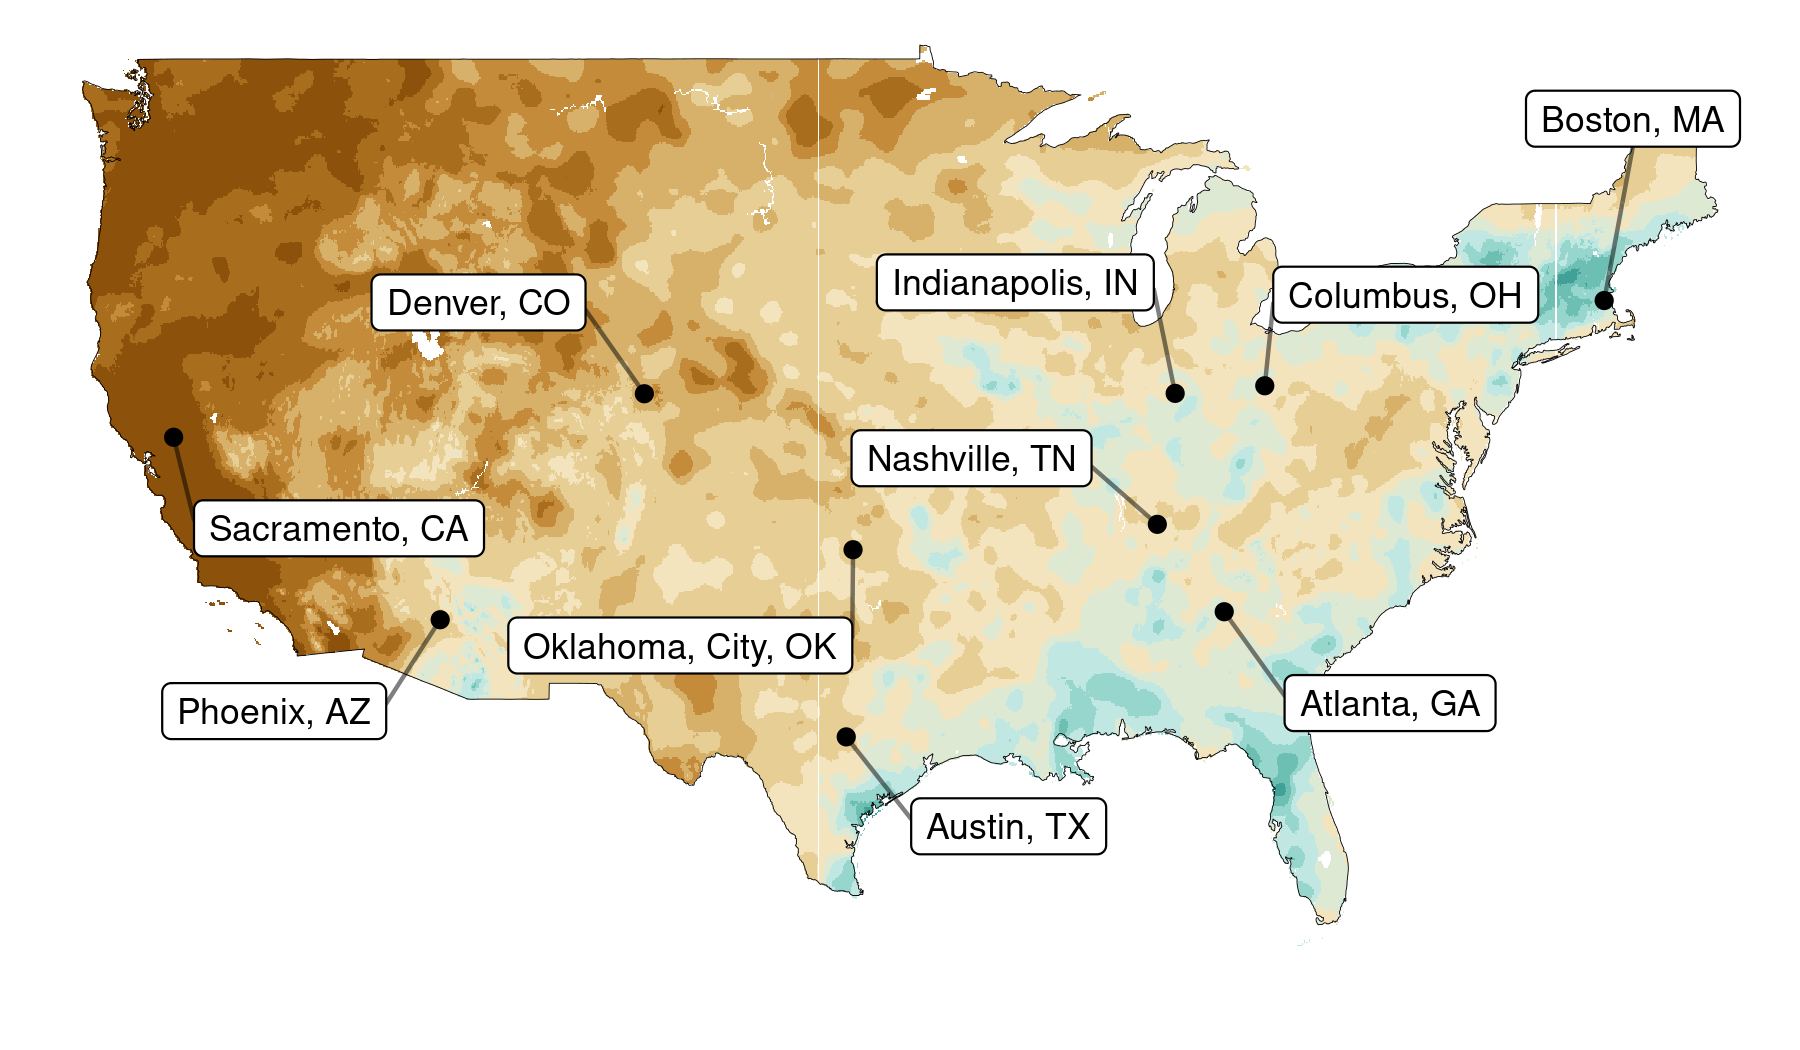
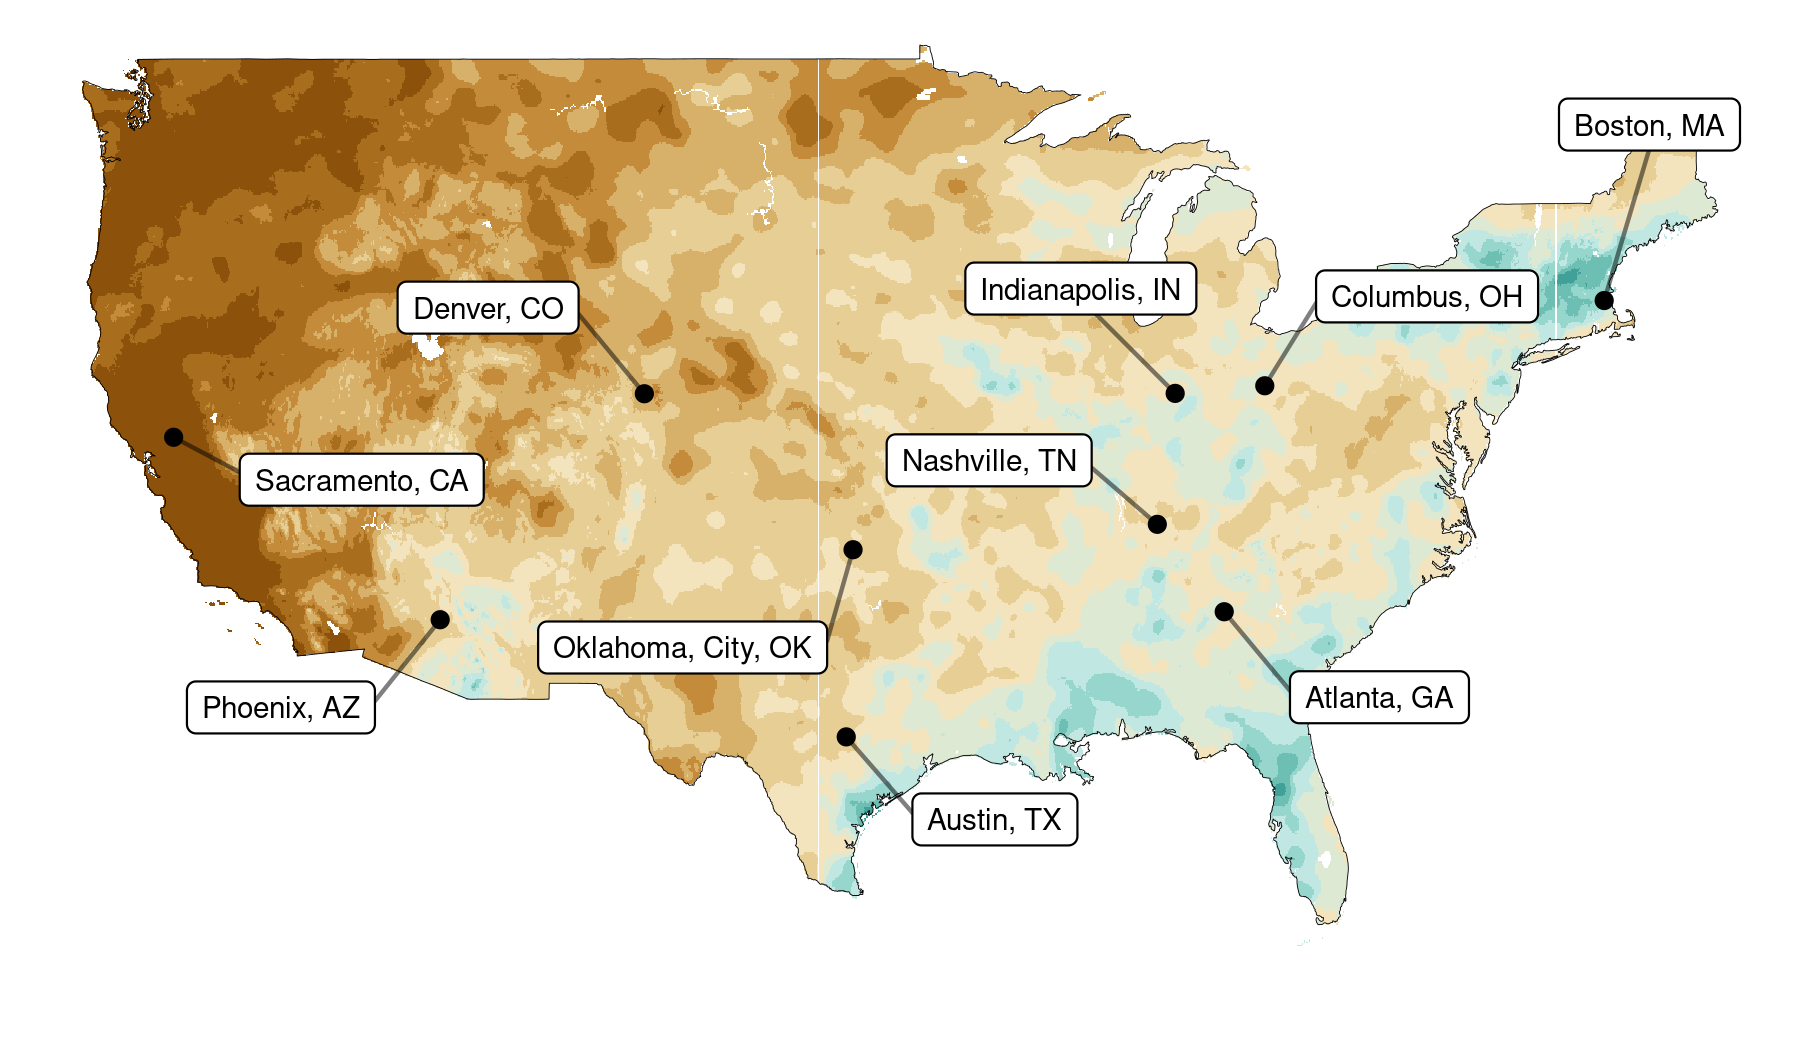
Update docs

diff --git a/README.md b/README.md
@@ -91,9 +91,15 @@ of available periods of record. By default, “1901-2000” (20th Century)
 is used. Other available periods can be listed with
 `validate_normals_period()`
 
+Same measurement type datasets (i.e. temperature or precipitation) can
+be compared by using the `compute_anomaly()` function, which returns the
+difference between the two datasets. Months not present on the LHS are
+not included (i.e. your monthly measurements only cover a few months of
+the year).
+
 ``` r
-tave_anomaly <- compute_anomaly(monthly_data = nclim_monthly_data, 
-                                normals_data = nclim_normals_data)
+tave_anomaly <- compute_anomaly(nclimgrid_data_a =  nclim_monthly_data, 
+                                nclimgrid_data_b = nclim_normals_data)
 
 tave_anomaly %>% str
 #> tibble [5,637,096 × 4] (S3: tbl_df/tbl/data.frame)
@@ -108,12 +114,6 @@ tave_anomaly %>% str
 #>  - attr(*, "wide")= logi FALSE
 #>  - attr(*, "anomaly_df")= logi TRUE
 ```
-
-Same measurement type datasets (i.e. temperature or precipitation) can
-be compared by using the `compute_anomaly()` function, which returns the
-difference between the two datasets. Months not present on the LHS are
-not included (i.e. your monthly measurements only cover a few months of
-the year).
 
 ### Visualization
 
@@ -169,7 +169,7 @@ nclim_monthly_prcp_data %>%
   plot_nclimgrid(show_credit = F, show_states = F) +
   geom_point(data = large_us_capitals, aes(x=long, y=lat)) +
   geom_label_repel(data = large_us_capitals, aes(x=long, y=lat, label=name),
-                    box.padding = 1, segment.alpha = 0.5, size = 3) +
+                    box.padding = 1, segment.alpha = 0.5, size = 2.5) +
   labs(title = NULL, 
        subtitle = NULL) +
   theme_void() +
@@ -179,8 +179,8 @@ nclim_monthly_prcp_data %>%
 
 <img src="man/figures/README-examplegraph3-1.png" width="100%" />
 
-You can visualize and compare the distribution of values from monthly or
-normals datasets with `plot_nclimgrid_histogram()`.
+You can visualize and compare the distribution of values from monthly,
+normals or anomaly datasets with `plot_nclimgrid_histogram()`.
 
 <img src="man/figures/README-examplegraph4-1.png" width="100%" />
 
@@ -190,3 +190,6 @@ normals datasets with `plot_nclimgrid_histogram()`.
   - Fetch data from nClimGrid’s
     [archive]( "https://www.ncei.noaa.gov/pub/data/climgrid/") of
     monthly data from 1895 onwards.
+  - Option to compute anomaly also as a percentage
+  - Function to compute ranks based on normal percentiles - this dataset
+    is not readily available at NCIS.
